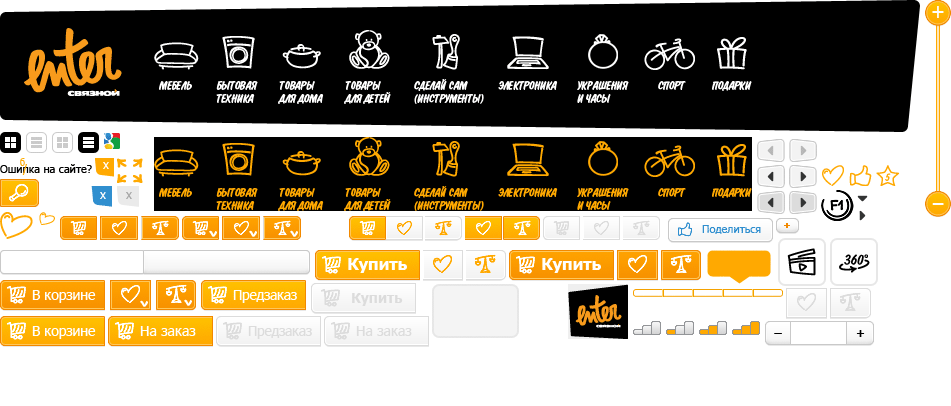
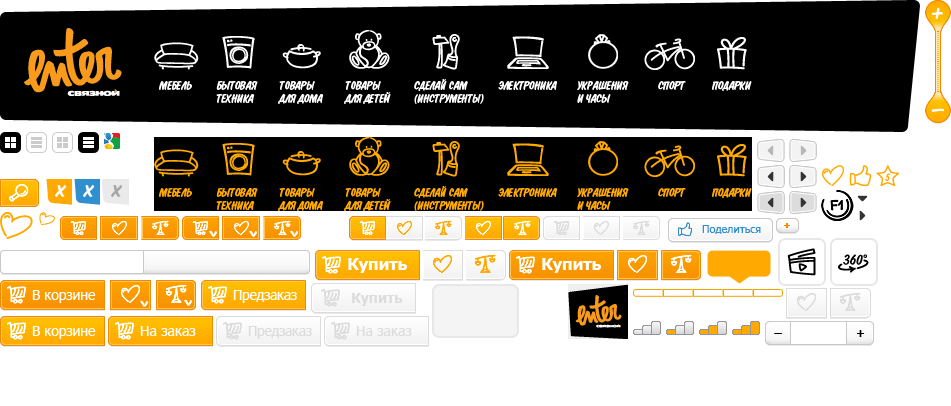
Обновление спрайтов

Changed region(s): [[0.9758, 0.0, 1.0, 0.532], [0.0, 0.3842, 0.1525, 0.532], [0.8843, 0.6207, 0.9148, 0.6798]]

diff --git a/web/css/skin/inner.css b/web/css/skin/inner.css
@@ -341,7 +341,7 @@ box-shadow:0 0 9px #616161;
 }
 .prompting I {position:absolute; display:block; font-size:0; line-height:0}
 .prompting .corner {top:-15px; //top:-14px; left:20px; width:20px; height:15px; background:url(/css/skin/img/bg.png) no-repeat -35px -14px}
-.prompting .close {top:0px; right:0px; //right:-2px; width:21px; height:21px; background:url(/css/skin/img/bg_inner.png) no-repeat -91px -186px; text-indent:-10000px; cursor:pointer}
+.prompting .close {top:0px; right:0px; //right:-2px; width:26px; height:26px; background:url(/css/skin/img/bg_inner.png) no-repeat -74px -179px; text-indent:-10000px; cursor:pointer}
 
 .filterresult {display:none; position:absolute; left:100%; z-index:10; padding:9px 12px; font-weight:normal; cursor:auto; white-space:nowrap; background-color:#fff; border:2px solid #ffa901;
 border-radius:5px;
@@ -798,7 +798,7 @@ border-radius:5px;
 box-shadow:0 0 7px #616161;
 //behavior: url(ie-css3.htc)
 }
-.hideblock .close {position:absolute ;top:0px; right:0px; //right:-2px; display:block;  width:21px; height:21px; background:url(/css/skin/img/bg_inner.png) no-repeat -117px -186px; text-indent:-10000px; cursor:pointer; font-size:0; line-height:0;}
+.hideblock .close {position:absolute ;top:0px; right:0px; //right:-2px; display:block;  width:26px; height:26px; background:url(/css/skin/img/bg_inner.png) no-repeat -102px -179px; text-indent:-10000px; cursor:pointer; font-size:0; line-height:0;}
 .hideblock .title {font-size:16px; padding-bottom:15px}
 .hideblock LABEL {font-size:12px}
 
@@ -851,7 +851,7 @@ border-radius:5px;
 box-shadow:0 0 7px #616161;
 }
 .popupbox {padding:20px 20px 30px 20px}
-.popup  .close {position:absolute; top:0px; right:0px; //right:-2px; display:block;  width:19px; height:19px; background:url(/css/skin/img/bg_inner.png) no-repeat -95px -158px; text-indent:-10000px; cursor:pointer; font-size:0; line-height:0;}
+.popup  .close {position:absolute; top:0px; right:0px; //right:-2px; display:block;  width:26px; height:26px; background:url(/css/skin/img/bg_inner.png) no-repeat -46px -179px; text-indent:-10000px; cursor:pointer; font-size:0; line-height:0;}
 .pouptitle {float:left; width:560px; margin:0; font-size:30px; font-family:"Enter"; text-transform:uppercase}
 
 
@@ -866,8 +866,8 @@ box-shadow:0 0 7px #616161;
 .scale {width:26px; height:217px; background:url(/css/skin/img/bg_inner.png) no-repeat -925px 0}
 .scale B {display:block; cursor:pointer}
 .scale .plus, .scale .minus {width:26px; height:26px}
-.scale DIV {position:relative; width:26px; height:165px}
-.scale DIV B {position:absolute; left:2px; width:22px; height:17px; background:url(/css/skin/img/bg.png) no-repeat -187px -79px}
+.scale DIV {position:relative; width:26px; height:71px}
+.scale DIV B {position:absolute; left:2px; width:22px; height:20px; background:url(/css/skin/img/bg.png) no-repeat -187px -77px}
 
 .photoview {margin:0 80px 0 200px; height:724px; position:relative}
 .photobox {float:left; width:100%; height:100%; overflow:hidden; position:relative}
